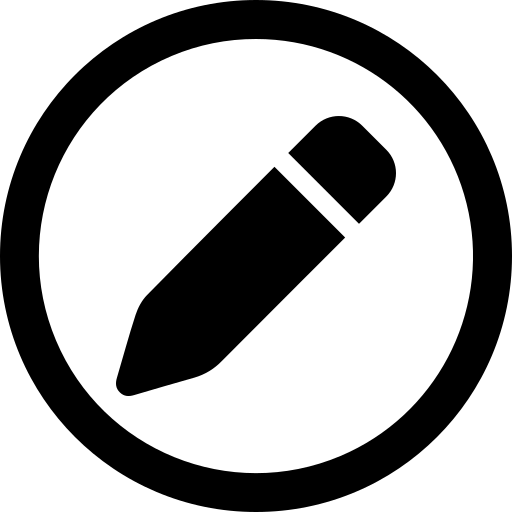
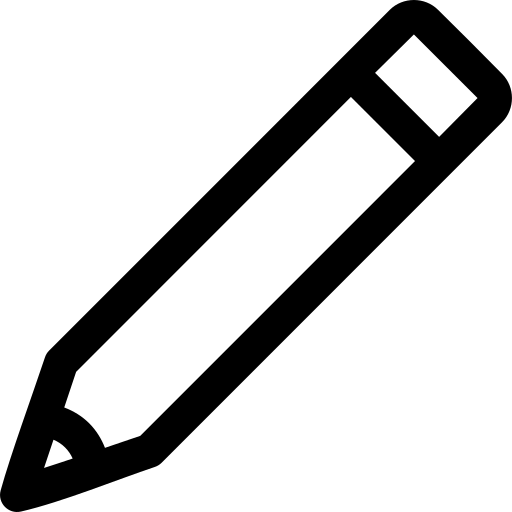
décalage bouton hoy, alignement bottom bar

diff --git a/js/detail.js b/js/detail.js
@@ -2,8 +2,8 @@
 const PAYS_CONFIG = {
   es: {
     code: "ES", label: "España",
-    joursSemaine: ["Domingo","Lunes","Martes","Miércoles","Jueves","Viernes","Sábado"],
-    moisNoms: ["Enero","Febrero","Marzo","Abril","Mayo","Junio","Julio","Agosto","Septiembre","Octubre","Noviembre","Diciembre"],
+    joursSemaine: ["Domingo", "Lunes", "Martes", "Miércoles", "Jueves", "Viernes", "Sábado"],
+    moisNoms: ["Enero", "Febrero", "Marzo", "Abril", "Mayo", "Junio", "Julio", "Agosto", "Septiembre", "Octubre", "Noviembre", "Diciembre"],
     champSaint: "Misericordia chile",
     champBreviario: "En el Breviario Castellano",
     champCelebration: "Celebración",
@@ -16,9 +16,9 @@ const PAYS_CONFIG = {
     tempsTrads: {},
   },
   fr: {
-    code: "FR", label: "France",
-    joursSemaine: ["Dimanche","Lundi","Mardi","Mercredi","Jeudi","Vendredi","Samedi"],
-    moisNoms: ["Janvier","Février","Mars","Avril","Mai","Juin","Juillet","Août","Septembre","Octobre","Novembre","Décembre"],
+    code: "\uD83C\uDDEB\uD83C\uDDF7", label: "France",
+    joursSemaine: ["Dimanche", "Lundi", "Mardi", "Mercredi", "Jeudi", "Vendredi", "Samedi"],
+    moisNoms: ["Janvier", "Février", "Mars", "Avril", "Mai", "Juin", "Juillet", "Août", "Septembre", "Octobre", "Novembre", "Décembre"],
     champSaint: "Misericordia France",
     champBreviario: "Dans le bréviaire Francais",
     champCelebration: "Célébration",
@@ -312,7 +312,7 @@ function afficherJour(index, annee, cibleID) {
     </div>`;
 
   const todayBtn = document.getElementById("today");
-  if (todayBtn) todayBtn.style.visibility = (mois === today.getMonth() + 1 && jour === today.getDate()) ? "hidden" : "visible";
+  if (todayBtn) todayBtn.style.visibility = (mois === today.getMonth() + 1 && jour === today.getDate() + 1) ? "hidden" : "visible";
 }
 
 function afficherTousLesJours(index) {
@@ -378,8 +378,8 @@ function getFetesMobiles(year) {
     { nom: "Jesucristo, sumo y eterno sacerdote", date: addDaysToDate(p.month, p.day, year, 53) },
     { nom: "La Santisima Trinidad", date: addDaysToDate(p.month, p.day, year, 56) },
     { nom: "Corpus Christi", date: addDaysToDate(p.month, p.day, year, 60) },
-    { nom: "Sagrado Corazón de Jesús", date: addDaysToDate(p.month, p.day, year, 61) },
-    { nom: "Corazón Inmaculado de María", date: addDaysToDate(p.month, p.day, year, 62) },
+    { nom: "Sagrado Corazón de Jesús", date: addDaysToDate(p.month, p.day, year, 68) },
+    { nom: "Corazón Inmaculado de María", date: addDaysToDate(p.month, p.day, year, 69) },
     { nom: "Cristo-Rey", date: calculateCristoRey(year) },
     { nom: "Sagrada Familia", date: { month: dSF.getMonth() + 1, day: dSF.getDate() } },
     { nom: "Epifania del Señor", date: { month: dEp.getMonth() + 1, day: dEp.getDate() } },

diff --git a/index.html b/index.html
@@ -54,7 +54,7 @@
         <div id="next" style="font-size: 30px;font-weight: bold;">&gt;</div>
     </div>
 
-    <div id="jours-semaine"></div>
+    <div id="jours-semaine">
         <div>Lun</div>
         <div>Mar</div>
         <div>Mié</div>
@@ -72,7 +72,7 @@
     </div>
     <!-- Barre fixe en bas : sélecteur pays + aujourd'hui -->
     <div class="bottom-bar" id="bottom-bar">
-        <div></div>
+        <button class="bar-btn" id="back" style="visibility: hidden;">&#8592;</button>
         <select class="country-select" id="country-select"></select>
         <button class="bar-btn" id="today">Hoy</button>
     </div>